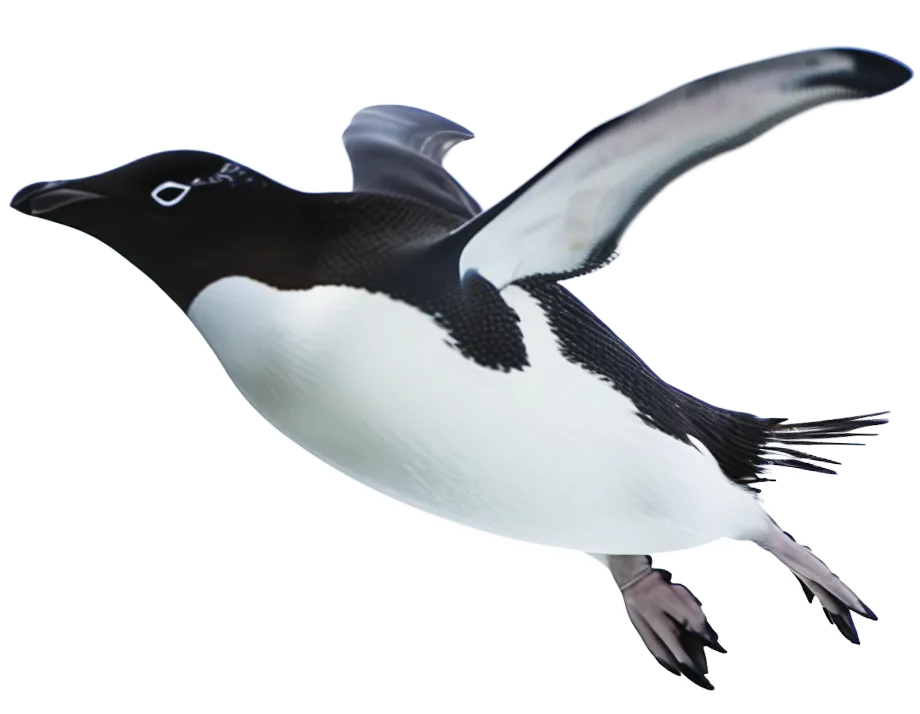
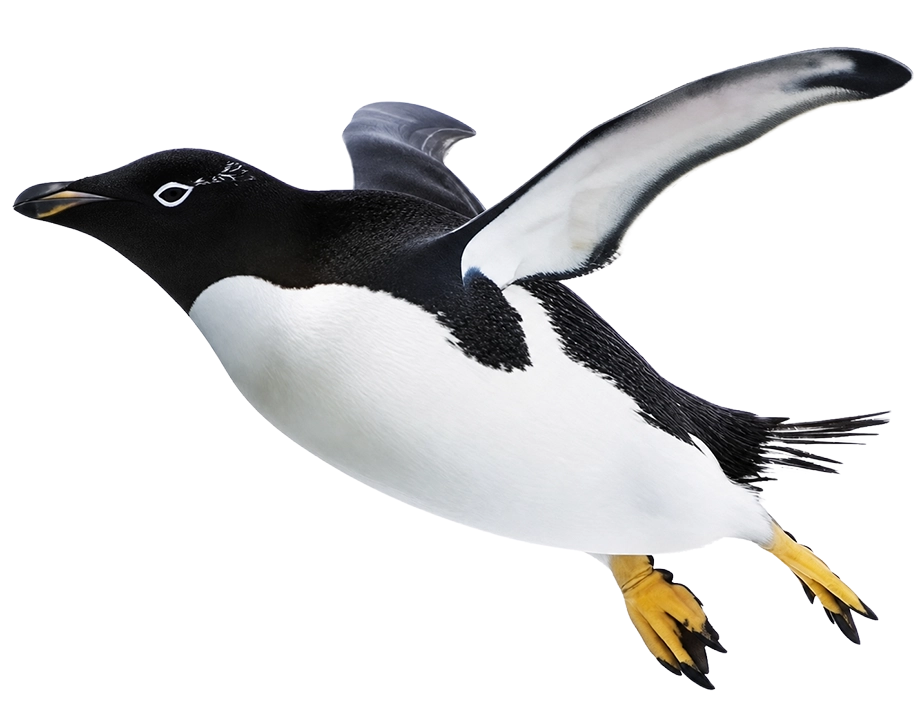
fix(requirement): Update terminology for clarity in various sections

diff --git a/docs/07-spec-subpages.md b/docs/07-spec-subpages.md
@@ -506,7 +506,7 @@ const { href, photo, title, dept, highlightPhoto } = Astro.props;
 | # | セクション | クラス | 主な中身 |
 |:--|:--|:--|:--|
 | R-1 | `PageHeader` | — | 英字 `Requirement` ／サブ「募集要項」／薄青空背景 |
-| R-2 | リード | `.p-requirement__lead` | 「ホシザキは厨房機器の枠を超え、医療や農業など新たな分野への挑戦を続けています。食材ロスや環境負荷といった社会課題の解決を通じ、世界中の『食』の未来を創ることが私たちの使命です。現状に満足せず、グローバルな舞台で『常識の先へ』跳躍したいと願う、情熱ある皆さんのエントリーをお待ちしています。」 |
+| R-2 | リード | `.p-requirement__lead` | 「ホシザキは厨房機器の枠を超え、病院や農業、流通など新たな分野への挑戦を続けています。食材ロスや環境負荷といった社会課題の解決を通じ、世界中の『食』の未来を創ることが私たちの使命です。現状に満足せず、グローバルな舞台で『常識の先へ』跳躍したいと願う、情熱ある皆さんのエントリーをお待ちしています。」 |
 | R-3 | 総合職テーブル | `.p-requirement__table` | 見出し「総合職」＋氷ブロックアイコン／白カード内に `<dl>` or `<table>` で 8 項目：初任給／諸手当／昇給／賞与／勤務地／勤務時間／年間休日数／休日・休暇／待遇・福利厚生・社内制度 |
 | R-4 | 初期配属 | `.p-requirement__note` | 見出し「初期配属について」＋氷ブロックアイコン／「内定通知の際に初期配属（職種・勤務地）をお知らせします／勤務地については、3 年間固定です。」 |
 | R-5 | CTA ペア | — | `CtaBannerPair` |
@@ -700,7 +700,7 @@ interface Props {
 | I-6 | プログラム / PROGRAM | `.p-internship__program` | 見出し `PROGRAM` ／3 行テーブル：`DAY 1` インプットと現場理解（会社紹介、工場／試験室見学、オリエンテーション）／`DAY 2〜4` 設計開発・実務体験（社員とのミーティング同席、実際の製品（製氷機や冷蔵庫等）の動作観察、図面作成、開発試験）／`DAY 5` アウトプットとフィードバック（実習の振返り、成果報告会、現場社員（若手〜マネジメント層）からの個別フィードバック）／ペンギン 3 羽のイラスト |
 | I-7 | 募集要項 / REQUIREMENTS | `.p-internship__requirements` | 見出し `REQUIREMENTS` ／白カード内テーブル：対象（理系学生〈学部・学科不問／基礎的な Office 操作ができる方〉）／開催時期（8月〜9月の平日5日間）／会場（愛知本社〈中央研究所〉または島根工場〈中央研究所〉）／特典（交通費実費支給、宿泊手配あり（遠方者）、昼食代支給（社員食堂利用））／選考（マイナビよりES提出 → WEB面接（1回）→ 参加決定） |
 | I-8 | 体験者の声 / VOICES | `.p-internship__voices` | 見出し `VOICES` ／4 カード（女性 × 2／男性 × 2 のアバター＋テキストコメント）／各コメントは 4〜6 行 |
-| I-9 | 採用担当からのメッセージ / MESSAGE | `.p-internship__message` | 見出し「採用担当からのメッセージ／MESSAGE」／本文（中央寄せ）：「『ホシザキを、ただの厨房機器メーカーと思っていないか。』私たちが求めているのは、既存の枠を超え、新しい『食の当たり前』を創り出すパイオニア精神です。世界中の厨房、そして医療や農業の現場を支える製品が、どのような思考と情熱から生まれるのか。この5日間で、あなたの『常識』を塗り替える体験が待っています。」／「さぁ、その想いを翼に変えて。エントリーはマイページから。」 |
+| I-9 | 採用担当からのメッセージ / MESSAGE | `.p-internship__message` | 見出し「採用担当からのメッセージ／MESSAGE」／本文（中央寄せ）：「『ホシザキを、ただの厨房機器メーカーと思っていないか。』私たちが求めているのは、既存の枠を超え、新しい『食の当たり前』を創り出すパイオニア精神です。世界中の厨房、そして病院や農業、流通の現場を支える製品が、どのような思考と情熱から生まれるのか。この5日間で、あなたの『常識』を塗り替える体験が待っています。」／「さぁ、その想いを翼に変えて。エントリーはマイページから。」 |
 | I-10 | 冒険を始める ENTRY | `.p-internship__cta` | 独立した大きな CTA ボタン（ページ内で 2 回目）／ログイン／エントリー導線 |
 | I-11 | パンくず | — | `採用TOP ▸ インターンシップ` |
 

diff --git a/docs/08-hyoki-report.md b/docs/08-hyoki-report.md
@@ -128,7 +128,7 @@
 
 **6. など / 等（例示の接尾辞「〜など」）**　🔴 高（確信度: high）
 
-- 「**など**」: `src/pages/job.astro:50`「新製品のゼロイチ開発（機械・電気・制御ソフト・化学）。（116 行ほか『〜など』多数）」 / `src/pages/requirement.astro:85`「医療や農業など新たな分野への挑戦」 / `src/pages/strategy.astro:192`「医療や農業など、社会課題を解決する新たな領域」 / `src/data/personDetails.ts:421`「飲食店や暮らしの現場など、人々の身近な生活」
+- 「**など**」: `src/pages/job.astro:50`「新製品のゼロイチ開発（機械・電気・制御ソフト・化学）。（116 行ほか『〜など』多数）」 / `src/pages/requirement.astro:85`「病院や農業、流通など新たな分野への挑戦」 / `src/pages/strategy.astro:192`「病院や農業、流通など、社会課題を解決する新たな領域」 / `src/data/personDetails.ts:421`「飲食店や暮らしの現場など、人々の身近な生活」
 - 「**等**」: `src/pages/environment.astro:29`「各種技能検定（製図、溶接、フォークリフト等）」 / `src/pages/environment.astro:106`「遠方出身の若手社員等が安心して生活できるよう寮を貸与」 / `src/pages/internship.astro:47`「実際の製品（製氷機や冷蔵庫等）の動作観察」 / `src/pages/requirement.astro:64`「クラブ活動補助（野球、バスケット、テニス、卓球、茶華道等）」 / `src/data/personDetails.ts:132`「工場設備の保守や設計等幅広く学べる体制」
 - 💡 提案: 例示の「〜など」は本文では圧倒的に『など』（かな）。一方、募集要項・環境ページの箇条書き的な列挙や個別ページ本文に『等』（漢字）が点在する。読み手向けの本文では「など」に統一し、要項などの硬い列挙でも一貫性を優先して「など」へ寄せるのが自然。クライアントが要項のみ『等』を許容する場合は『要項は等／本文はなど』とルールを明文化する。
 

diff --git a/proofread-report-2026-06-17.md b/proofread-report-2026-06-17.md
@@ -68,7 +68,7 @@
 
 **6. など / 等（例示の接尾辞「〜など」）**　🔴 高（確信度: high）
 
-- 「**など**」: `src/pages/job.astro:50`「新製品のゼロイチ開発（機械・電気・制御ソフト・化学）。（116 行ほか『〜など』多数）」 / `src/pages/requirement.astro:85`「医療や農業など新たな分野への挑戦」 / `src/pages/strategy.astro:192`「医療や農業など、社会課題を解決する新たな領域」 / `src/data/personDetails.ts:421`「飲食店や暮らしの現場など、人々の身近な生活」
+- 「**など**」: `src/pages/job.astro:50`「新製品のゼロイチ開発（機械・電気・制御ソフト・化学）。（116 行ほか『〜など』多数）」 / `src/pages/requirement.astro:85`「病院や農業、流通など新たな分野への挑戦」 / `src/pages/strategy.astro:192`「病院や農業、流通など、社会課題を解決する新たな領域」 / `src/data/personDetails.ts:421`「飲食店や暮らしの現場など、人々の身近な生活」
 - 「**等**」: `src/pages/environment.astro:29`「各種技能検定（製図、溶接、フォークリフト等）」 / `src/pages/environment.astro:106`「遠方出身の若手社員等が安心して生活できるよう寮を貸与」 / `src/pages/internship.astro:47`「実際の製品（製氷機や冷蔵庫等）の動作観察」 / `src/pages/requirement.astro:64`「クラブ活動補助（野球、バスケット、テニス、卓球、茶華道等）」 / `src/data/personDetails.ts:132`「工場設備の保守や設計等幅広く学べる体制」
 - 💡 提案: 例示の「〜など」は本文では圧倒的に『など』（かな）。一方、募集要項・環境ページの箇条書き的な列挙や個別ページ本文に『等』（漢字）が点在する。読み手向けの本文では「など」に統一し、要項などの硬い列挙でも一貫性を優先して「など」へ寄せるのが自然。クライアントが要項のみ『等』を許容する場合は『要項は等／本文はなど』とルールを明文化する。
 
